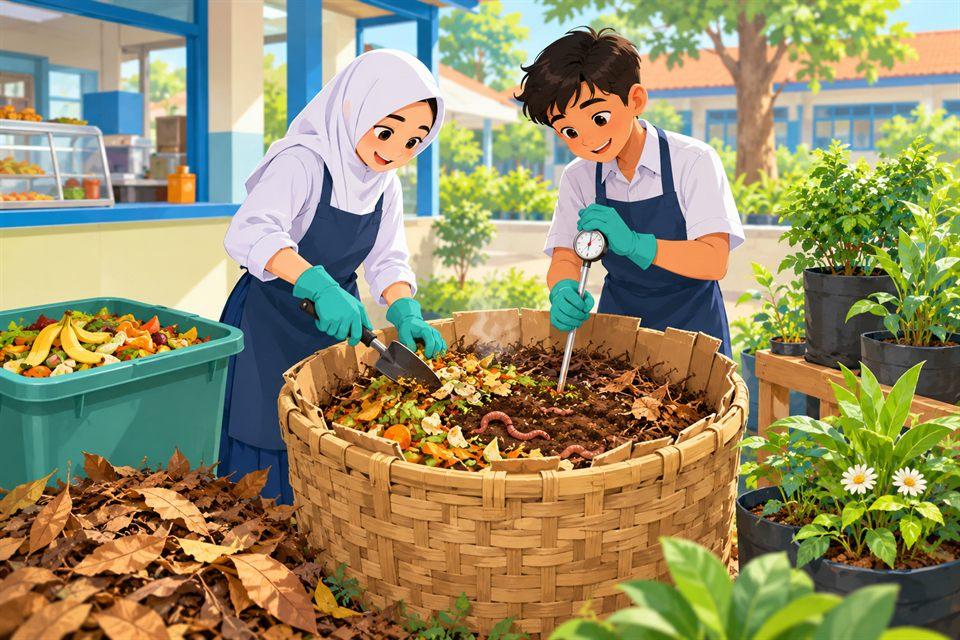
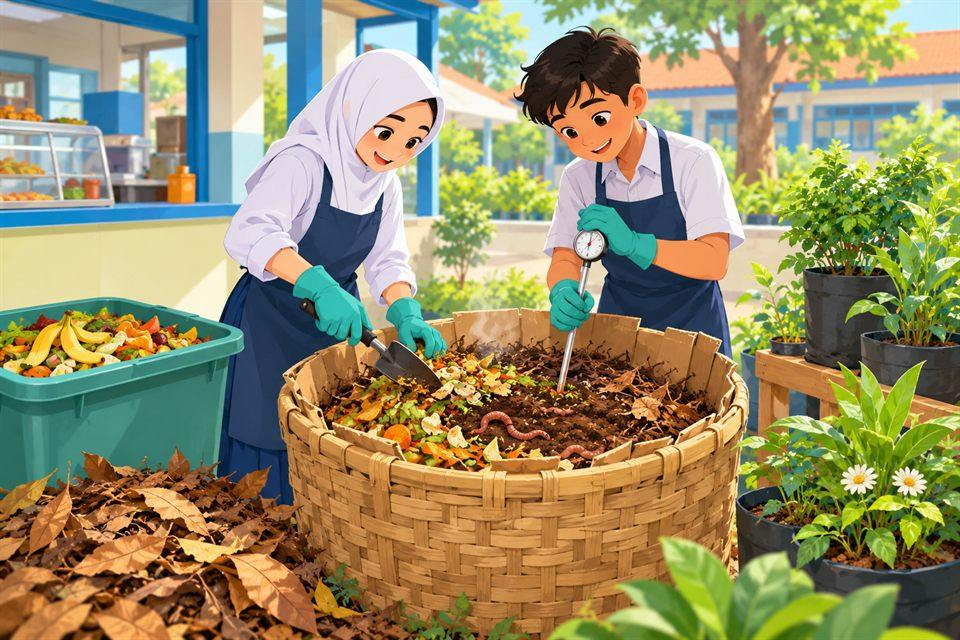
Kompres aset simulasi misi 1–14 (benda ±2,5× lebar tampil) dan sampul misi (JPG q74)

diff --git a/sw.js b/sw.js
@@ -8,7 +8,7 @@
    - /api/* (Kak Nala AI, memori, jejak) selalu lewat jaringan, tidak disimpan.
    VERSI dan DAFTAR_SIMPAN diperbarui otomatis oleh: node alat/perbarui-sw.js
    ========================================================= */
-const VERSI = 'nalarstem-691321b2';
+const VERSI = 'nalarstem-2df29aff';
 const DAFTAR_SIMPAN = [
   './',
   'index.html',
